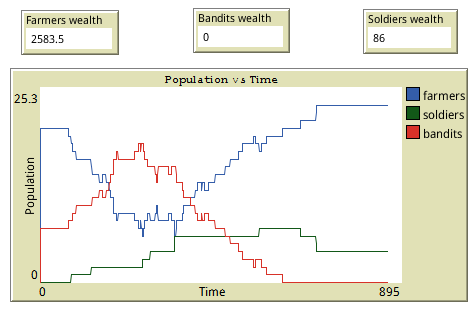
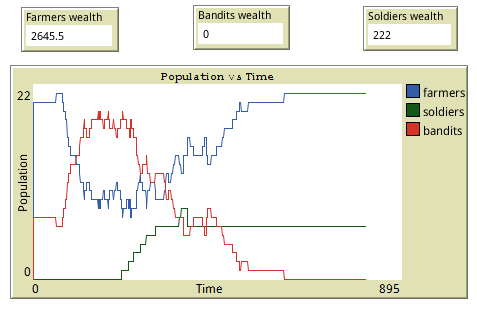
Adding all experiments images

diff --git a/entrega1.tex b/entrega1.tex
@@ -442,6 +442,58 @@ continuously.
     \caption{Base experiment}
 \end{figure}
 
+\begin{figure}
+    \begin{subfigure}{0.45\textwidth}
+    \includegraphics[width=\textwidth]{Images/Exp2_sliders.png}
+    \caption{Experiment parameters}
+    \end{subfigure}
+    \hfill
+    \begin{subfigure}{0.45\textwidth}
+    \includegraphics[width=\textwidth]{Images/Exp2_indicators.png}
+    \caption{Experiment indicators}
+    \end{subfigure}%
+    \caption{Only farmers at the begining}
+\end{figure}
+
+\begin{figure}
+    \begin{subfigure}{0.45\textwidth}
+    \includegraphics[width=\textwidth]{Images/Exp3_sliders.png}
+    \caption{Experiment parameters}
+    \end{subfigure}
+    \hfill
+    \begin{subfigure}{0.45\textwidth}
+    \includegraphics[width=\textwidth]{Images/Exp3_indicators.png}
+    \caption{Experiment indicators}
+    \end{subfigure}%
+    \caption{Only bandits at the begining}
+\end{figure}
+
+\begin{figure}
+    \begin{subfigure}{0.45\textwidth}
+    \includegraphics[width=\textwidth]{Images/Exp4_sliders.png}
+    \caption{Experiment parameters}
+    \end{subfigure}
+    \hfill
+    \begin{subfigure}{0.45\textwidth}
+    \includegraphics[width=\textwidth]{Images/Exp4_indicators.png}
+    \caption{Experiment indicators}
+    \end{subfigure}%
+    \caption{Only soldiers at the begining}
+\end{figure}
+
+\begin{figure}
+    \begin{subfigure}{0.45\textwidth}
+    \includegraphics[width=\textwidth]{Images/Exp5_sliders.png}
+    \caption{Experiment parameters}
+    \end{subfigure}
+    \hfill
+    \begin{subfigure}{0.45\textwidth}
+    \includegraphics[width=\textwidth]{Images/Exp5_indicators.png}
+    \caption{Experiment indicators}
+    \end{subfigure}%
+    \caption{More farmers and city halls}
+\end{figure}
+
 \subsection{Sensitivity analysis}
 
 \begin{table}[h!]
